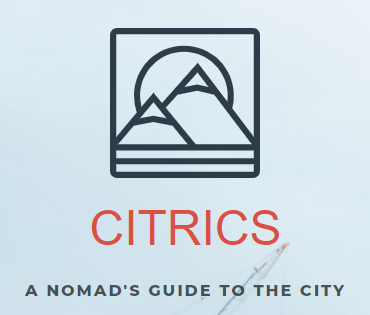
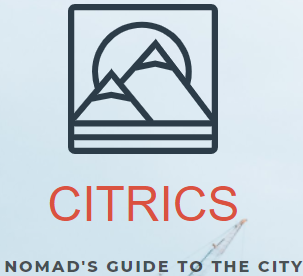
+ working on project page

Changed region(s): [[0.2079, 0.0, 0.7426, 0.5797], [0.0, 0.8406, 1.0, 1.0], [0.1485, 0.6667, 0.8317, 0.8406]]

diff --git a/styles/projects.css b/styles/projects.css
@@ -3,7 +3,7 @@
 	justify-content: space-evenly;
 	padding-top: 130px;
 	height: 100%;
-	weight: 100%;
+	width: 100%;
 }
 
 @media only screen and (max-width: 600px) {
@@ -13,11 +13,12 @@
 		flex-direction: column;
 		font-size: 1rem;
 		padding-top: 180px;
-		height: 50%;
+		padding-bottom: 150px;
 		background: linear-gradient(to left, black, grey);
 	}
 }
 .projects img {
+	border-radius: 3%;
 	box-shadow: 0px 0px 20px 10px cyan;
 	background-color: cyan;
 	opacity: 0.7;
@@ -25,13 +26,8 @@
 }
 .projects img:hover {
 	box-shadow: 0px 0px 20px 10px cyan;
-	transform: scale(1.1);
+	transform: scale(1);
 	opacity: 0.8;
-}
-
-@media only screen and (max-width: 600px) {
-	.projects img {
-	}
 }
 
 .slider__projects {
@@ -59,11 +55,6 @@
 	display: flex;
 	flex-direction: column;
 	justify-content: center;
-	font-size: 1rem;
-}
-.project__text > p {
-	display: flex;
-	flex-direction: column;
-	justify-content: center;
-	font-size: 1rem;
+	font-size: 1.5rem;
+	padding-top: 10px;
 }

diff --git a/pages/projects.html b/pages/projects.html
@@ -134,9 +134,11 @@
 <a href="https://linkedin-aa465.web.app/"
           target="_blank" rel="noopener noreferrer">    
           <img src="../img/linkedin-clone.PNG" 
-                alt="linkedin-clone"/></a>
+                alt="linkedin-clone" width="100%" height="85%" /></a>
 <div class="project__text">
-  <h1>Linkedin Clone</h1>
+  <h1><span style="color:cyan">Linkedin Clone</span><br> 
+ </h1>
+  
 </div>
 
 
@@ -148,9 +150,9 @@
           
 <a href="https://main.d2vgut56c5mq8l.amplifyapp.com/" target="_blank" rel="noopener noreferrer">
     <img src="../img/citrics-small.PNG"
-         alt="citrics"/></a>
+         alt="citrics" width="100%" height="85%"/></a>
 <div class="project__text">
-  <h1>Cintrics</h1>
+  <h1><span style="color:cyan">Citrics</span></h1>
 </div>
 
 </div>
